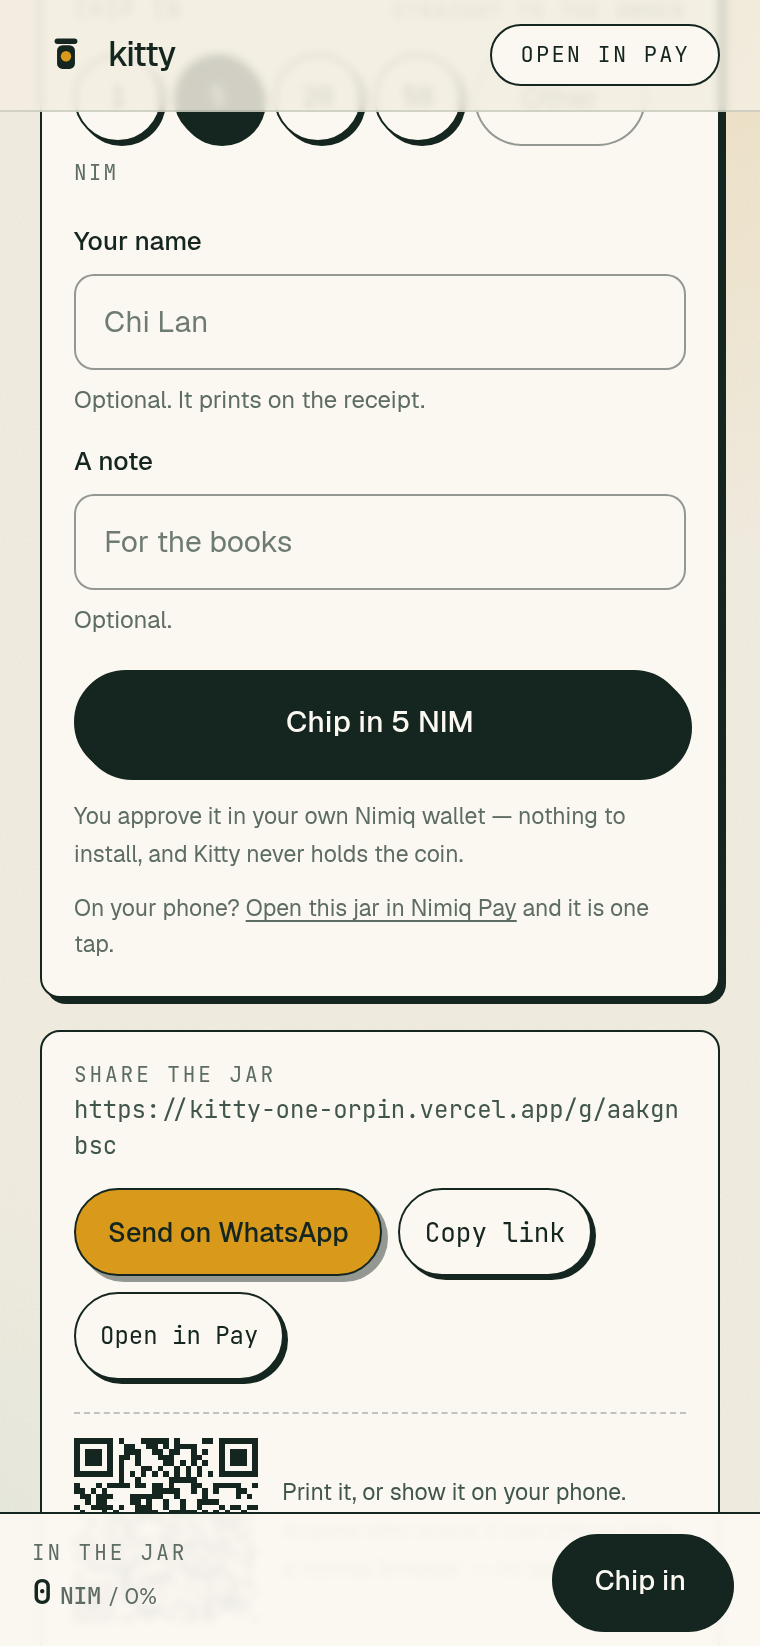
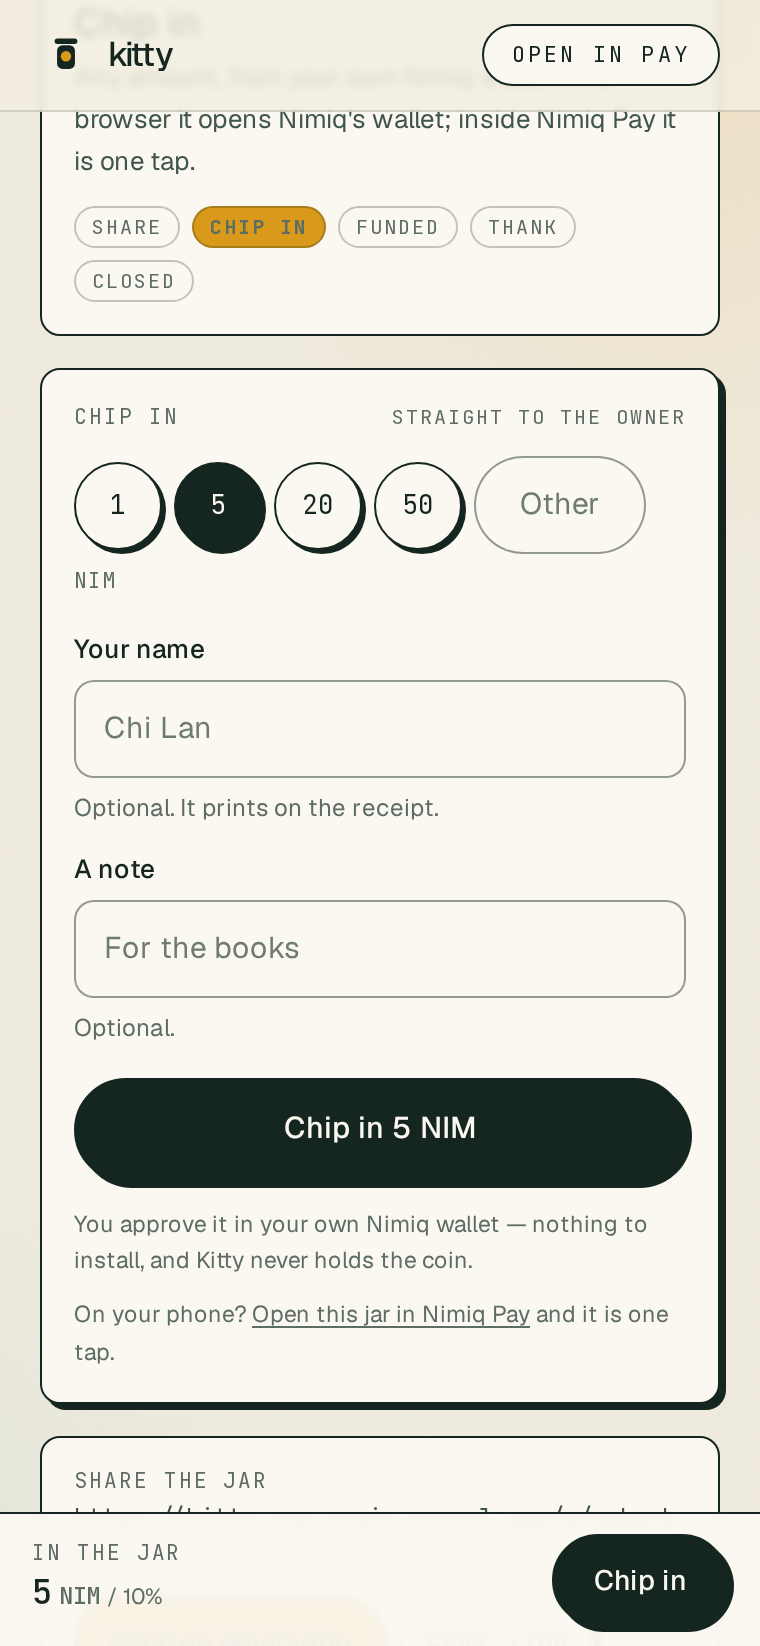
docs: link the demo video; re-shoot the submission screenshots on a cold cache
Screenshots were re-captured with fresh browser contexts: the previous
screen-goal.png came from a long-lived session serving an older build and
showed 0 of 50 NIM, which is not what the live page renders (5 of 50, 10%,
one verified receipt, trust line reading 5 NIM of receipts against a 0 NIM
balance).

diff --git a/docs/submission.md b/docs/submission.md
@@ -23,6 +23,7 @@ Deadline: **2026-11-12T00:00:00Z** (Thu 12 Nov 07:00 +07). Submit **10 Nov**.
 | team_members | (blank) |
 | x_account | @0xMemeshe |
 | builder_story (4000 chars) | **Final text below, 2,259 chars.** Carries the real first payment (5 NIM, block 65,891,682) |
+| video_url | https://youtu.be/IgbqfNUR9sw |
 | skool_post_url | 2 points. Post draft below before filling the form. |
 | social_post_url | 3 points. Post draft below before filling the form. |
 | heard_about | Nimiq Mini Apps Competition site |
@@ -116,11 +117,18 @@ What I would build next: recurring chips (the same aunt every month), a goal pag
 
 MIT, no token, no AI, no contract. The whole product is public bookkeeping over payments that already happened.
 
-## Video (3 minutes, two phones)
+## Video — shipped, 2:07
 
-1. Two minutes: the goal page, the link, the receipts, why there is no custodian.
-2. Thirty seconds: the second phone chips in one NIM live, the jar moves, the hash appears.
-3. Thirty seconds: the same hash on the explorer, and the owner's balance on the trust line.
+**https://youtu.be/IgbqfNUR9sw** — public, plays logged out.
+
+Hook, then a live jar creation, then the real footage: the link, the chip-in, the wallet's own
+approval sheet carrying `kitty:aakgnbsc`, the receipt landing, its own forwardable page, and the
+public proof page. Every number on screen is read from mainnet, not from the app's copy.
+
+One screen in it is now stale and worth knowing about: the receipt screen was recorded on 2 November
+and reads `RECEIPTS 0 IN` above a `+5` row. That was the state at the time; the current build renders
+`5 NIM` and "the receipts above add up to 5 NIM" correctly. If the video is ever re-cut, that is the
+only frame that needs re-recording.
 
 ## Before submitting, re-check inside 24 hours
 

diff --git a/README.md b/README.md
@@ -21,7 +21,7 @@ money, never holds a key, and never asks anyone for a deposit.
   <img src="submission/screen-home.png" width="19%" alt="The jar list" />
 </p>
 
-**Demo video (2:07):** _the walkthrough — create a jar, chip in from a phone, watch the receipt land_
+**Demo video (2:07):** [https://youtu.be/IgbqfNUR9sw](https://youtu.be/IgbqfNUR9sw) — create a jar, chip in from a phone, watch the receipt land
 · **Submission pack:** [`submission/`](submission) (icon, thumbnail, screenshots) and
 [`docs/submission.md`](docs/submission.md) (every form field, drafted).
 
